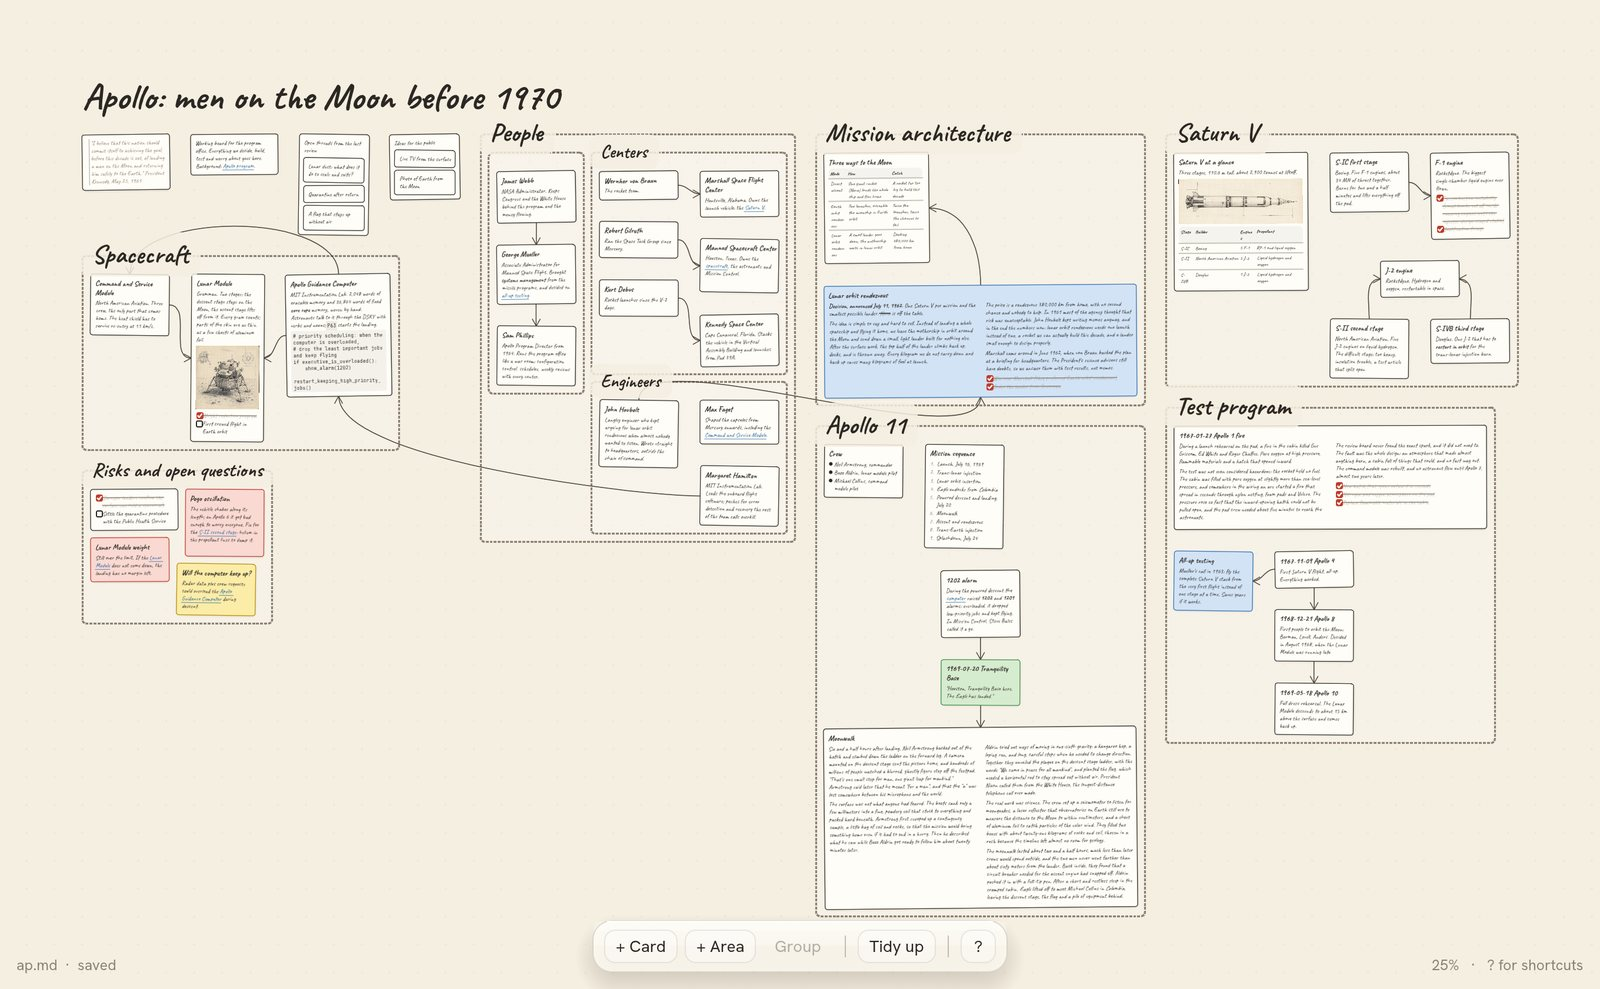
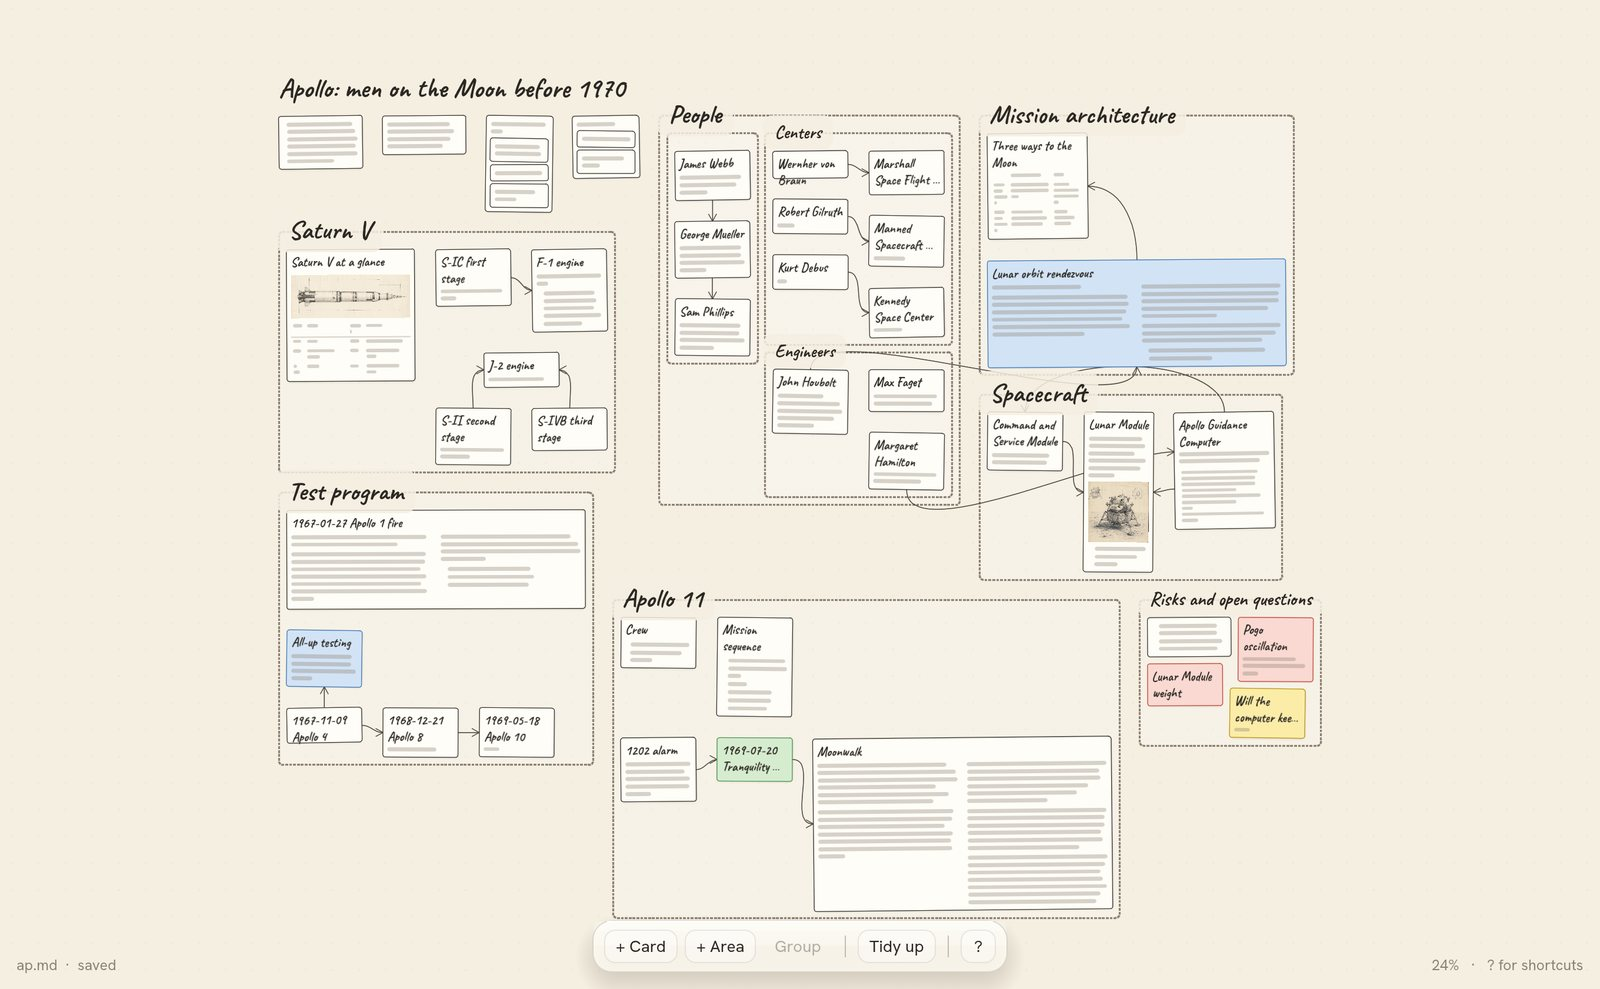
Timelines run left to right
A chain of connections lays out in a row, first card on the left, so time
flows to the right. Trees still grow down.

Changed region(s): [[0.0312, 0.0607, 0.9688, 0.9403], [0.9062, 0.5157, 0.9375, 0.546]]

diff --git a/crates/skiss/src/canvas/layout.rs b/crates/skiss/src/canvas/layout.rs
@@ -490,7 +490,13 @@ fn tree_blocks(
         if (n < 3 && n < ids.len()) || members.iter().any(|&m| manual[m]) {
             continue;
         }
-        let (size, members) = arrange(r, &children, sizes, gap, LINKED_GAP.max(gap));
+        // A chain (one after another) is a timeline: time flows to the right. A tree grows down.
+        let chain = members.iter().all(|&m| children[m].len() <= 1);
+        let (size, members) = if chain {
+            in_a_row(r, &children, sizes, LINKED_GAP.max(gap))
+        } else {
+            arrange(r, &children, sizes, gap, LINKED_GAP.max(gap))
+        };
         out.push(Block {
             root: r,
             size,
@@ -498,6 +504,20 @@ fn tree_blocks(
         });
     }
     out
+}
+
+/// Lays out the chain starting at `i` from left to right, tops aligned.
+fn in_a_row(i: usize, children: &[Vec<usize>], sizes: &[Vec2], gap: f32) -> Subtree {
+    let mut members = Vec::new();
+    let (mut x, mut h) = (0.0f32, 0.0f32);
+    let mut cur = Some(i);
+    while let Some(c) = cur {
+        members.push((c, vec2(x, 0.0)));
+        x += sizes[c].x + gap;
+        h = h.max(sizes[c].y);
+        cur = children[c].first().copied();
+    }
+    (vec2(x - gap, h), members)
 }
 
 /// A laid-out subtree: its size, and each item with its position inside it.

diff --git a/crates/skiss-core/src/board/tree.rs b/crates/skiss-core/src/board/tree.rs
@@ -5,7 +5,8 @@
 //! three connections, with three cards in a chain or under one parent), and one of these holds:
 //!
 //! - It is a chain: every card has at most one of them going out and one coming in ("Followed
-//!   by", "Then"). It reads in the direction of its arrows, so the source goes first.
+//!   by", "Then"). It is a timeline: the source goes first, and the layout puts it in a row
+//!   from left to right.
 //! - Every card has at most one going out: the target is the parent ("Reports to", "Part of").
 //! - Every card has at most one coming in: the source is the parent ("Manages", "Leads").
 //!

diff --git a/CHANGELOG.md b/CHANGELOG.md
@@ -55,8 +55,8 @@ and this project adheres to [Semantic Versioning](https://semver.org/spec/v2.0.0
   as "Reports to", "Part of" or "Manages") gives every card at most one parent, has no cycles
   and links at least three cards, parents go on top with their children centered below. This
   works inside an area and between areas, so an org chart reads like one.
-- Chains ("Followed by", "Then": one before and one after each card) lay out in the direction of
-  their arrows, so a timeline reads from top to bottom.
+- Chains ("Followed by", "Then": one before and one after each card) are timelines: they lay out
+  in a row from left to right, so time flows to the right.
 - Resizing cards and areas from a corner grip; pasting copied cards between boards keeps them
   cards.
 
